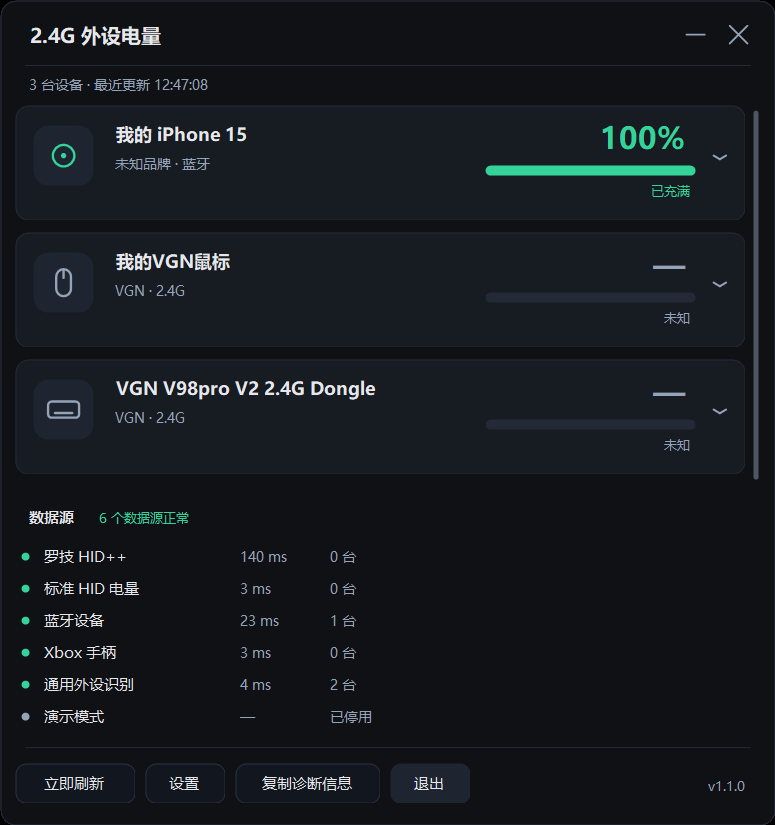
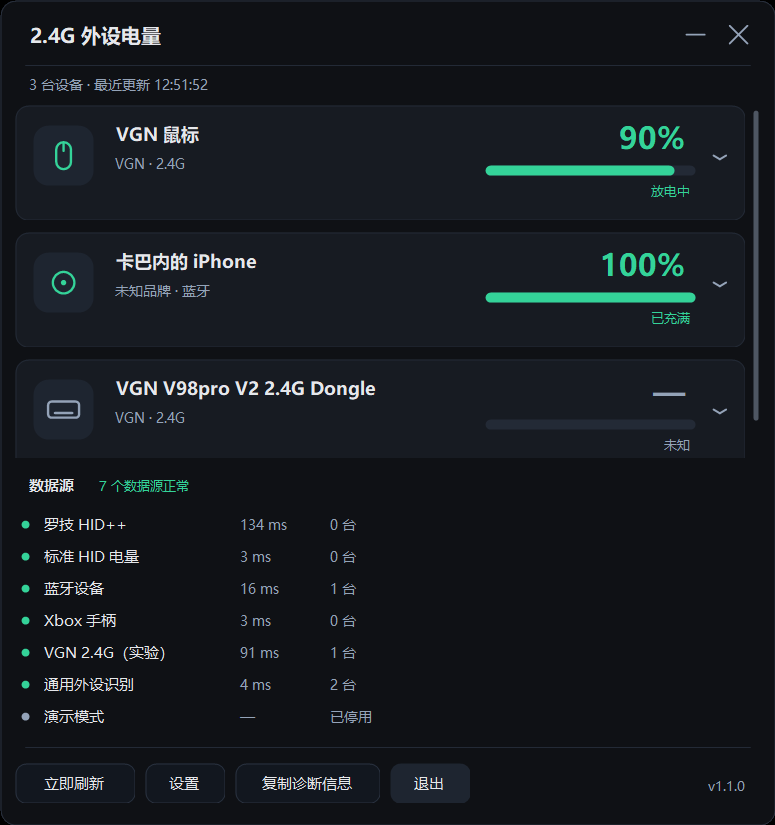
feat: VGN 2.4G 鼠标实验性电量读取（v1.1.1）
- 逆向 VGN VHUB WebHID 私有协议：output report 8、PCDriverStatus 握手、电池命令 0x04
- 实测 VGN F1 系 3554:F503 返回 90% / 4059mV / 未充电
- 新增 VgnProbe 诊断工具，采集 VGN 私有协议日志
- 版本 1.1.1，文档同步

diff --git a/tools/VgnProbe/VgnProbe.cs b/tools/VgnProbe/VgnProbe.cs
@@ -1,0 +1,155 @@
+using System;
+using System.Collections.Generic;
+using System.IO;
+using System.Text;
+using System.Threading;
+using Pb.Core;
+using Pb.Core.Hid;
+
+internal static class VgnProbeProgram
+{
+    private static readonly object Sync = new object();
+    private static StreamWriter _log;
+    private static volatile bool _stop;
+
+    private static void L(string s)
+    {
+        lock (Sync)
+        {
+            Console.WriteLine(s);
+            if (_log != null) { _log.WriteLine(s); _log.Flush(); }
+        }
+    }
+
+    private static string Hex(byte[] b, int max)
+    {
+        if (b == null) return "(null)";
+        var p = new List<string>();
+        for (int i = 0; i < b.Length && i < max; i++) p.Add(b[i].ToString("X2"));
+        return string.Join(" ", p.ToArray()) + (b.Length > max ? " ...(" + b.Length + "B)" : "");
+    }
+
+    private static void Main(string[] args)
+    {
+        int seconds = 45;
+        string outPath = Path.Combine(AppDomain.CurrentDomain.BaseDirectory, "vgn-probe.log");
+        for (int i = 0; i < args.Length; i++)
+        {
+            if (args[i] == "--seconds" && i + 1 < args.Length) int.TryParse(args[i + 1], out seconds);
+            if (args[i] == "--out" && i + 1 < args.Length) outPath = args[i + 1];
+        }
+        if (seconds < 5) seconds = 5;
+        try { _log = new StreamWriter(outPath, false, new UTF8Encoding(false)); } catch { }
+
+        L("VGN 电量诊断工具  " + DateTime.Now.ToString("yyyy-MM-dd HH:mm:ss"));
+        L("说明：运行期间请持续移动 VGN 鼠标、敲击 VGN 键盘，让设备保持唤醒。");
+        L("日志文件：" + outPath);
+        L("");
+
+        HidBus bus = new HidBus(delegate(string m) { if (m.IndexOf("打不开", StringComparison.Ordinal) < 0) L("[bus] " + m); });
+        List<HidInterface> all = bus.EnumerateFresh();
+        HidInterface mouseCtrl = null, kbdCtrl = null;
+        L("== 相关 HID 接口 ==");
+        for (int i = 0; i < all.Count; i++)
+        {
+            HidInterface it = all[i];
+            if (it.Vid != 0x3554 && it.Vid != 0x320F) continue;
+            L(string.Format("{0:X4}:{1:X4} usage={2:X4}:{3:X4} in/out/feat={4}/{5}/{6} svc={7}",
+                it.Vid, it.Pid, it.UsagePage, it.Usage, it.InputReportLen, it.OutputReportLen, it.FeatureReportLen, it.Service));
+            L("   " + it.InstanceId);
+            if (it.Vid == 0x3554 && it.Pid == 0xF503 && it.UsagePage == 0xFF02 && it.OutputReportLen >= 16) mouseCtrl = it;
+            if (it.Vid == 0x320F && it.Pid == 0x5088 && it.UsagePage == 0xFFEF && it.OutputReportLen >= 60) kbdCtrl = it;
+        }
+        L("");
+        L("mouseCtrl=" + (mouseCtrl == null ? "未找到" : mouseCtrl.InstanceId));
+        L("kbdCtrl=" + (kbdCtrl == null ? "未找到" : kbdCtrl.InstanceId));
+        L("");
+
+        IHidChannel mouse = null, kbd = null;
+        try { if (mouseCtrl != null) mouse = bus.Open(mouseCtrl); } catch (Exception ex) { L("打开鼠标控制接口失败: " + ex.Message); }
+        try { if (kbdCtrl != null) kbd = bus.Open(kbdCtrl); } catch (Exception ex) { L("打开键盘控制接口失败: " + ex.Message); }
+
+        Thread mr = null, kr = null;
+        if (mouse != null) { mr = new Thread(delegate() { ReadLoop(mouse, "MOUSE"); }); mr.IsBackground = true; mr.Start(); }
+        if (kbd != null) { kr = new Thread(delegate() { ReadLoop(kbd, "KBD"); }); kr.IsBackground = true; kr.Start(); }
+
+        DateTime end = DateTime.UtcNow.AddSeconds(seconds);
+        int round = 0;
+        while (DateTime.UtcNow < end)
+        {
+            if (mouse != null)
+            {
+                if (round == 0) SendMouse(mouse, 2, new byte[] { 1 });
+                SendMouse(mouse, 3, null);
+                Thread.Sleep(50);
+                SendMouse(mouse, 4, null);
+            }
+            if (kbd != null) SendKeyboard(kbd);
+            round++;
+            Thread.Sleep(600);
+        }
+
+        _stop = true;
+        Thread.Sleep(700);
+        try { if (mouse != null) mouse.Dispose(); } catch { }
+        try { if (kbd != null) kbd.Dispose(); } catch { }
+        L("");
+        L("采集结束，共 " + round + " 轮。请把日志文件发回：");
+        L(outPath);
+        if (_log != null) { _log.Flush(); _log.Dispose(); }
+        Console.WriteLine("按回车退出...");
+        try { Console.ReadLine(); } catch { }
+    }
+
+    private static void ReadLoop(IHidChannel ch, string tag)
+    {
+        while (!_stop)
+        {
+            try
+            {
+                byte[] r = ch.Read(200);
+                if (r == null) continue;
+                L(string.Format("{0} RX {1}", tag, Hex(r, 32)));
+                if (tag == "MOUSE" && r.Length > 9 && r[1] == 3)
+                    L("    -> 在线标志=" + r[6]);
+                if (tag == "MOUSE" && r.Length > 9 && r[1] == 4)
+                    L("    -> 电量=" + r[6] + "% 充电=" + r[7] + " 电压=" + ((r[8] << 8) | r[9]) + "mV");
+                if (tag == "KBD" && r.Length > 7)
+                    L("    -> 候选电量=" + r[6] + "% 充电位=" + ((r[7] >> 4) & 15));
+            }
+            catch { Thread.Sleep(100); }
+        }
+    }
+
+    private static void SendMouse(IHidChannel ch, byte cmd, byte[] value)
+    {
+        byte[] data = new byte[16];
+        data[0] = cmd;
+        if (value != null && value.Length > 0)
+        {
+            data[4] = (byte)value.Length;
+            for (int i = 0; i < value.Length && 5 + i < 15; i++) data[5 + i] = value[i];
+        }
+        int sum = 0;
+        for (int i = 0; i < 15; i++) sum += data[i];
+        int crc = (85 - (sum & 0xFF)) & 0xFF;
+        data[15] = (byte)((crc - 8) & 0xFF);
+        byte[] report = new byte[17];
+        report[0] = 8;
+        Array.Copy(data, 0, report, 1, 16);
+        bool ok = ch.Write(report);
+        L("MOUSE TX cmd=" + cmd + " -> " + ok + "  " + Hex(report, 17));
+    }
+
+    private static void SendKeyboard(IHidChannel ch)
+    {
+        byte[] buf = new byte[64];
+        buf[0] = 5;
+        buf[1] = 0;
+        buf[2] = 0;
+        buf[3] = 5;
+        buf[4] = 6;
+        bool ok = ch.Write(buf);
+        L("KBD TX -> " + ok + "  " + Hex(buf, 16));
+    }
+}

diff --git a/src/Core/Providers/VgnBatteryProvider.cs b/src/Core/Providers/VgnBatteryProvider.cs
@@ -1,0 +1,138 @@
+using System;
+using System.Collections.Generic;
+using System.Threading;
+using Pb.Core.Hid;
+
+namespace Pb.Core.Providers
+{
+    /// <summary>
+    /// VGN 2.4G 鼠标电量（实验）：使用 VGN VHUB 的 WebHID 私有命令。
+    /// 控制接口 usage FF02:0002 / output report 8；先发 PCDriverStatus 握手，再查 DeviceOnLine / BatteryLevel。
+    /// 实测 VGN F1 系接收器（3554:F503）可返回百分比、充电状态与电压。
+    /// </summary>
+    public sealed class VgnBatteryProvider : IProvider
+    {
+        private readonly AppConfig _config;
+        private readonly IAppContext _ctx;
+        private const byte ReportId = 8;
+
+        public VgnBatteryProvider(AppConfig config, IAppContext ctx)
+        {
+            _config = config;
+            _ctx = ctx;
+        }
+
+        public string Key { get { return "vgn"; } }
+        public string DisplayName { get { return "VGN 2.4G（实验）"; } }
+        public bool Enabled { get { return true; } }
+
+        public List<Peripheral> Scan(CancellationToken ct)
+        {
+            var result = new List<Peripheral>();
+            try
+            {
+                var bus = new HidBus(delegate(string m)
+                {
+                    if (_config.VerboseLog) _ctx.Log("[vgn] " + m);
+                });
+                List<HidInterface> all = bus.Enumerate();
+                for (int i = 0; i < all.Count; i++)
+                {
+                    if (ct.IsCancellationRequested) break;
+                    HidInterface it = all[i];
+                    if (it.Vid != 0x3554 || it.Pid != 0xF503) continue;
+                    if (it.UsagePage != 0xFF02 || it.OutputReportLen < 16) continue;
+                    Peripheral p = TryReadMouse(bus, it, ct);
+                    if (p != null) result.Add(p);
+                }
+            }
+            catch (Exception ex)
+            {
+                _ctx.Log("[vgn] 扫描失败: " + ex.Message);
+            }
+            return result;
+        }
+
+        private Peripheral TryReadMouse(IHidBus bus, HidInterface iface, CancellationToken ct)
+        {
+            try
+            {
+                using (IHidChannel ch = bus.Open(iface))
+                {
+                    // 1) 驱动在线握手（VHUB 在连接后先发 PCDriverStatus=2 + 1）
+                    SendMouse(ch, 2, new byte[] { 1 });
+                    Thread.Sleep(30);
+                    // 2) 查询设备在线
+                    SendMouse(ch, 3, null);
+                    Thread.Sleep(30);
+                    // 3) 查询电量
+                    SendMouse(ch, 4, null);
+
+                    int? level = null;
+                    int? millivolts = null;
+                    bool charging = false;
+                    DateTime deadline = DateTime.UtcNow.AddMilliseconds(1500);
+                    while (DateTime.UtcNow < deadline && !ct.IsCancellationRequested)
+                    {
+                        byte[] r = ch.Read(250);
+                        if (r == null) continue;
+                        if (r.Length > 9 && r[1] == 4)
+                        {
+                            level = r[6];
+                            charging = r[7] == 1;
+                            millivolts = (r[8] << 8) | r[9];
+                            break;
+                        }
+                    }
+                    if (!level.HasValue || level.Value < 0 || level.Value > 100) return null;
+
+                    var p = new Peripheral();
+                    p.Id = "vgn:3554:f503";
+                    p.PhysicalId = p.Id;
+                    p.Name = "VGN 鼠标";
+                    p.Brand = "VGN";
+                    p.Kind = DeviceKind.Mouse;
+                    p.Connection = "2.4G";
+                    p.Percent = level;
+                    p.MilliVolts = millivolts;
+                    p.State = charging ? BatteryState.Charging : BatteryState.Discharging;
+                    p.Provider = DisplayName;
+                    p.Detail = "VGN 私有协议（实验）" + (string.IsNullOrEmpty(iface.Product) ? "" : " · " + iface.Product);
+                    p.DevicePath = iface.Path;
+                    p.Vid = iface.Vid;
+                    p.Pid = iface.Pid;
+                    p.Updated = DateTime.Now;
+                    return p;
+                }
+            }
+            catch (Exception ex)
+            {
+                if (_config.VerboseLog) _ctx.Log("[vgn] 读取失败: " + ex.Message);
+                return null;
+            }
+        }
+
+        private static void SendMouse(IHidChannel ch, byte cmd, byte[] value)
+        {
+            byte[] data = new byte[16];
+            data[0] = cmd;
+            if (value != null && value.Length > 0)
+            {
+                data[4] = (byte)value.Length;
+                for (int i = 0; i < value.Length && 5 + i < 15; i++) data[5 + i] = value[i];
+            }
+            int sum = 0;
+            for (int i = 0; i < 15; i++) sum += data[i];
+            int crc = (85 - (sum & 0xFF)) & 0xFF;
+            data[15] = (byte)((crc - ReportId) & 0xFF);
+            byte[] report = new byte[17];
+            report[0] = ReportId;
+            Array.Copy(data, 0, report, 1, 16);
+            ch.Write(report);
+        }
+
+        public void Dispose()
+        {
+        }
+    }
+}

diff --git a/src/Core/ProviderRegistry.cs b/src/Core/ProviderRegistry.cs
@@ -13,6 +13,7 @@ namespace Pb.Core
             Add(list, "Pb.Core.Providers.StandardHidBatteryProvider", config, ctx);
             Add(list, "Pb.Core.Providers.BluetoothBatteryProvider", config, ctx);
             Add(list, "Pb.Core.Providers.XInputBatteryProvider", config, ctx);
+            Add(list, "Pb.Core.Providers.VgnBatteryProvider", config, ctx);
             Add(list, "Pb.Core.Providers.GenericHidPeripheralProvider", config, ctx);
             Add(list, "Pb.Core.Providers.SimulationProvider", config, ctx);
             return list;

diff --git a/src/Core/AssemblyInfo.cs b/src/Core/AssemblyInfo.cs
@@ -5,6 +5,6 @@ using System.Runtime.InteropServices;
 [assembly: AssemblyDescription("常驻系统托盘的 2.4G / 蓝牙无线外设电量监控")]
 [assembly: AssemblyProduct("PeripheralBattery")]
 [assembly: AssemblyCopyright("")]
-[assembly: AssemblyVersion("1.1.0.0")]
-[assembly: AssemblyFileVersion("1.1.0.0")]
+[assembly: AssemblyVersion("1.1.1.0")]
+[assembly: AssemblyFileVersion("1.1.1.0")]
 [assembly: ComVisible(false)]

diff --git a/src/App/UiUtil.cs b/src/App/UiUtil.cs
@@ -27,7 +27,7 @@ namespace Pb.App
                 }
             }
             catch { }
-            return "1.1.0";
+            return "1.1.1";
         }
     }
 

diff --git a/docs/support-matrix.md b/docs/support-matrix.md
@@ -33,7 +33,8 @@
 | SteelSeries | 无线耳机/鼠标 | 2.4G | ❌（仅识别） | 仅官方 GG 暴露电量；通用识别可列出设备（电量未知） | [SteelSeries GG](https://steelseries.com/gg) |
 | Corsair | 无线耳机/鼠标 | 2.4G | ❌（仅识别） | 仅官方 iCUE，协议闭源；通用识别可列出设备（电量未知） | [iCUE](https://www.corsair.com/us/en/s/icue) |
 | HyperX | Cloud 系列无线耳机等 | 2.4G | ❌（仅识别） | 仅官方 NGENUITY；通用识别可列出设备（电量未知） | [NGENUITY](https://hyperx.com/pages/ngenuity) |
-| VGN | 无线鼠标/键盘 | 2.4G | ❌（仅识别） | 仅官方 VGN HUB；本机实测 3554:F503 / 320F:5088 可被通用识别列出（电量未知），可重命名 | [VGN 官网](https://www.vgnlab.com.cn/) |
+| VGN | 蜻蜓 F1 系列鼠标（3554:F503 接收器） | 2.4G | ✅（实验） | 已逆向 VHUB WebHID 协议：output report 8、PCDriverStatus 握手、电池命令 0x04；本机实测 90% / 4059mV，设备休眠时显示未知 | 本项目实测 |
+| VGN | V98Pro V2 键盘（320F:5088 接收器） | 2.4G | ⚠（仅识别） | 控制接口 FFEF / Windows output report 5 可发送，但未收到电量回包（设备休眠或固件命令差异）；可运行 VgnProbe 抓日志继续适配 | 本项目实测 |
 | Apple / Sony / Bose / Jabra 等 | BLE 耳机、鼠标、键盘 | 蓝牙 | ⚠ | 若厂商实现 GATT Battery Service（0x2A19）则可能被系统读到；否则读不到 | [Keychron 实测（说明机制）](https://pmortensen.eu/world2/2024/11/04/the-battery-state-of-a-keychron-qmk-based-keyboard-can-be-displayed-in-the-operating-system/) |
 
 ## 3. 明确不做的事

diff --git a/docs/architecture.md b/docs/architecture.md
@@ -27,6 +27,7 @@ src/
       StandardHidBatteryProvider.cs
       BluetoothBatteryProvider.cs
       XInputBatteryProvider.cs
+  VgnBatteryProvider.cs             VGN 2.4G 鼠标（实验，VHUB WebHID 协议）
       SimulationProvider.cs
   App/                       WinForms 托盘 UI（UI 组负责）
   app.manifest               DPI 感知等
